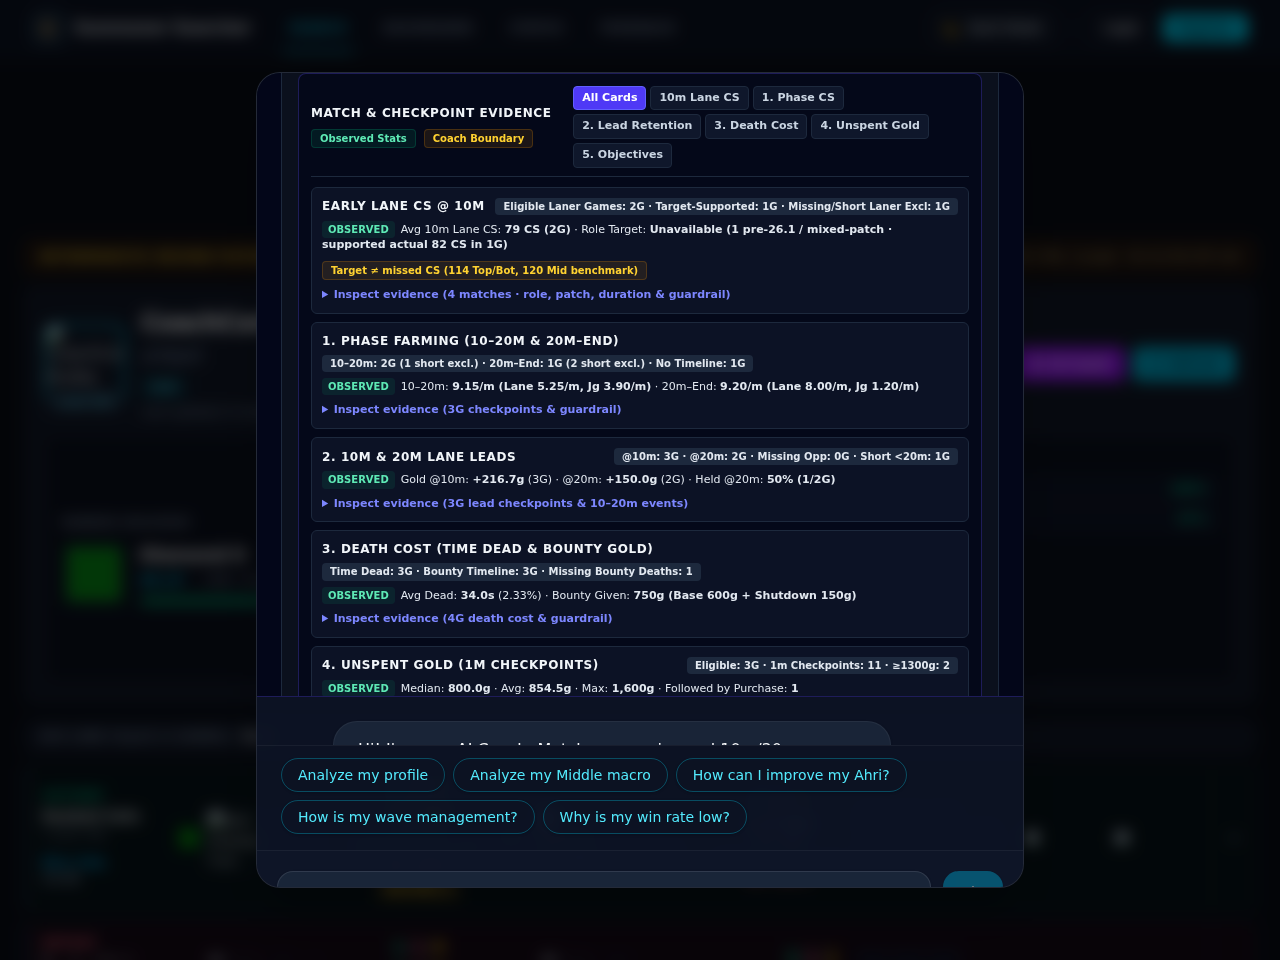
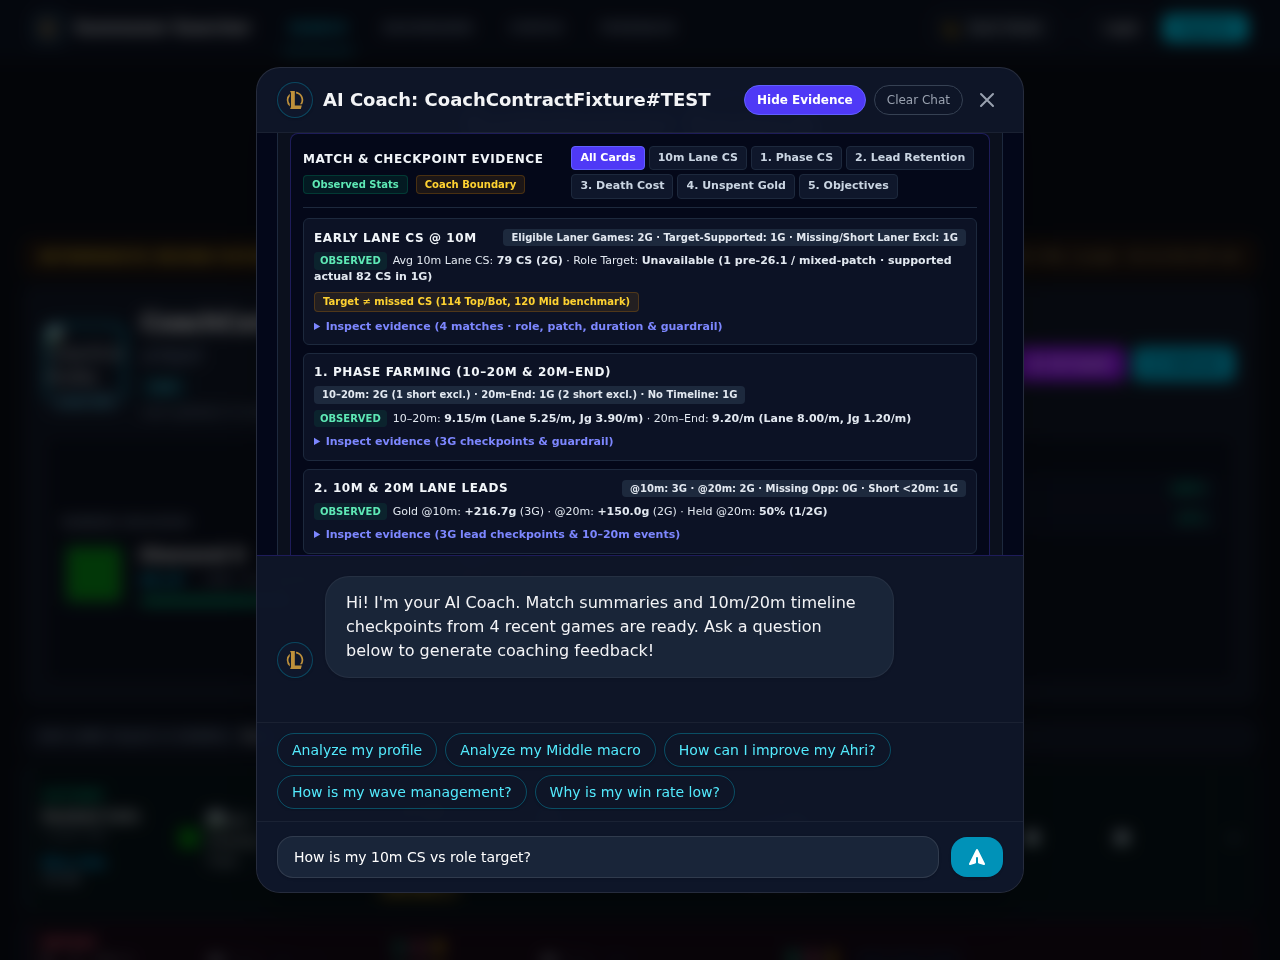
fix(ui): bound AI Coach modal to dvh with uncropped 320px footer and independent scroll

Changed region(s): [[0.2188, 0.0625, 0.7812, 0.7188], [0.2188, 0.75, 0.8125, 0.9375], [0.75, 0.3438, 0.7812, 0.375]]

diff --git a/src/components/AiAnalysisModal.tsx b/src/components/AiAnalysisModal.tsx
@@ -311,24 +311,30 @@ const AiAnalysisModal: React.FC<AiAnalysisModalProps> = ({
     context.timelineStatus === 'ANALYZED' || Boolean(imp?.hasTimelineAnalysis);
 
   return (
-    <div className="fixed inset-0 z-50 flex items-center justify-center bg-slate-900/40 dark:bg-black/60 backdrop-blur-sm p-2 sm:p-4 transition-all">
-      <div className="bg-white/95 dark:bg-slate-900/80 backdrop-blur-xl w-full max-w-3xl h-[95vh] sm:h-[85vh] rounded-2xl md:rounded-3xl shadow-2xl flex flex-col overflow-hidden border border-gray-200/50 dark:border-white/10">
+    <div className="fixed inset-0 z-50 flex items-center justify-center bg-slate-900/40 dark:bg-black/60 backdrop-blur-sm p-1.5 sm:p-4 transition-all">
+      <div
+        data-testid="ai-coach-modal-dialog"
+        className="bg-white/95 dark:bg-slate-900/90 backdrop-blur-xl w-full max-w-3xl h-[calc(100dvh-0.75rem)] max-h-[calc(100dvh-0.75rem)] sm:h-[min(86dvh,52rem)] sm:max-h-[calc(100dvh-2rem)] min-h-0 rounded-xl sm:rounded-2xl md:rounded-3xl shadow-2xl flex flex-col overflow-hidden border border-gray-200/50 dark:border-white/10"
+      >
         {/* Header */}
-        <div className="px-4 py-3 sm:px-6 sm:py-4 border-b border-gray-200/50 dark:border-white/5 flex flex-wrap justify-between items-center gap-2 shrink-0">
-          <h2 className="text-base sm:text-xl font-bold text-gray-800 dark:text-gray-100 flex items-center gap-2 sm:gap-3 min-w-0">
-            <div className="w-8 h-8 sm:w-10 sm:h-10 rounded-full bg-white dark:bg-slate-900 border border-gray-200 dark:border-cyan-500/30 flex items-center justify-center shadow-lg shadow-cyan-500/10 dark:shadow-cyan-500/20 p-1.5 sm:p-2 overflow-hidden shrink-0">
+        <div
+          data-testid="ai-coach-modal-header"
+          className="px-2.5 py-2 sm:px-5 sm:py-3.5 border-b border-gray-200/50 dark:border-white/5 flex justify-between items-center gap-1.5 sm:gap-2 shrink-0 min-w-0"
+        >
+          <h2 className="text-xs sm:text-lg font-bold text-gray-800 dark:text-gray-100 flex items-center gap-1.5 sm:gap-2.5 min-w-0 flex-1">
+            <div className="w-6 h-6 sm:w-9 sm:h-9 rounded-full bg-white dark:bg-slate-900 border border-gray-200 dark:border-cyan-500/30 flex items-center justify-center shadow-sm p-1 sm:p-1.5 overflow-hidden shrink-0">
               <img src="/lol.svg" alt="AI Coach" className="w-full h-full object-contain invert dark:invert-0 brightness-150 grayscale opacity-90 transition-all dark:opacity-100 dark:brightness-100 dark:grayscale-0" />
             </div>
             <span className="truncate">AI Coach: {summonerName}</span>
           </h2>
-          <div className="flex items-center gap-1.5 sm:gap-2.5 shrink-0">
+          <div className="flex items-center gap-1 sm:gap-2 shrink-0">
             <button
               type="button"
               data-testid="ai-coach-evidence-toggle"
               aria-expanded={showEvidenceDrawer}
               aria-controls="ai-coach-evidence-drawer"
               onClick={() => setShowEvidenceDrawer(prev => !prev)}
-              className={`text-xs font-semibold px-2.5 py-1 sm:px-3 sm:py-1.5 rounded-full border transition-colors ${
+              className={`text-[11px] sm:text-xs font-semibold px-2 py-1 sm:px-3 sm:py-1.5 rounded-full border transition-colors whitespace-nowrap ${
                 showEvidenceDrawer
                   ? 'bg-indigo-600 text-white border-indigo-500'
                   : 'text-indigo-700 dark:text-indigo-300 border-indigo-300 dark:border-indigo-700 hover:bg-indigo-50 dark:hover:bg-indigo-950/50'
@@ -339,41 +345,43 @@ const AiAnalysisModal: React.FC<AiAnalysisModalProps> = ({
             <button
               type="button"
               onClick={handleClearChat}
-              className="text-xs sm:text-sm text-gray-400 hover:text-gray-800 dark:hover:text-white transition-colors px-2 py-1 sm:px-3 sm:py-1.5 rounded-full border border-gray-200 dark:border-gray-700 hover:border-gray-300 dark:hover:border-gray-500"
+              className="text-[11px] sm:text-xs text-gray-400 hover:text-gray-800 dark:hover:text-white transition-colors px-2 py-1 sm:px-3 sm:py-1.5 rounded-full border border-gray-200 dark:border-gray-700 hover:border-gray-300 dark:hover:border-gray-500 whitespace-nowrap"
             >
               Clear Chat
             </button>
-            <button 
+            <button
               type="button"
+              data-testid="ai-coach-close-button"
+              aria-label="Close AI Coach"
               onClick={onClose}
-              className="text-gray-400 hover:text-gray-800 dark:hover:text-white transition-colors p-1"
+              className="text-gray-400 hover:text-gray-800 dark:hover:text-white transition-colors p-1 shrink-0"
             >
-              <svg xmlns="http://www.w3.org/2000/svg" className="h-6 w-6 sm:h-7 sm:w-7" fill="none" viewBox="0 0 24 24" stroke="currentColor">
+              <svg xmlns="http://www.w3.org/2000/svg" className="h-5 w-5 sm:h-6 sm:w-6" fill="none" viewBox="0 0 24 24" stroke="currentColor">
                 <path strokeLinecap="round" strokeLinejoin="round" strokeWidth={2} d="M6 18L18 6M6 6l12 12" />
               </svg>
             </button>
           </div>
         </div>
 
-        {/* Collapsible In-Coach Evidence Surface */}
+        {/* Collapsible In-Coach Evidence Surface (independently scrollable, capped so chat stays usable) */}
         {showEvidenceDrawer && (
           <div
             id="ai-coach-evidence-drawer"
             data-testid="ai-coach-evidence-drawer"
-            className="px-4 py-3 sm:px-6 bg-slate-50/95 dark:bg-slate-950/90 border-b border-indigo-200/70 dark:border-indigo-900/60 max-h-[65vh] overflow-y-auto text-xs space-y-2.5 shrink-0"
+            className="px-2 py-1.5 sm:px-5 sm:py-3 bg-slate-50/95 dark:bg-slate-950/90 border-b border-indigo-200/70 dark:border-indigo-900/60 max-h-[42dvh] sm:max-h-[44dvh] min-h-0 shrink overflow-y-auto overscroll-contain text-xs space-y-1.5"
           >
-            <div className="flex flex-wrap items-center justify-between gap-1.5">
-              <span className="font-extrabold uppercase tracking-wider text-slate-800 dark:text-slate-100">
+            <div className="flex flex-wrap items-center justify-between gap-1">
+              <span className="text-[10px] sm:text-xs font-extrabold uppercase tracking-wider text-slate-800 dark:text-slate-100">
                 What Your Coach Sees (Observed Stats &amp; Guardrails)
               </span>
-              <div className="flex flex-wrap gap-1.5">
-                <span className="text-[10px] font-bold px-2 py-0.5 rounded bg-emerald-500/10 text-emerald-700 dark:text-emerald-300 border border-emerald-500/20">
+              <div className="flex flex-wrap gap-1">
+                <span className="text-[10px] font-bold px-1.5 py-0.5 rounded bg-emerald-500/10 text-emerald-700 dark:text-emerald-300 border border-emerald-500/20">
                   Observed: {context.totalGamesAnalyzed || 0} matches ·{' '}
                   {timelineAnalyzedInContext
                     ? '10m/20m timelines loaded'
                     : 'Match summaries only (timeline not run)'}
                 </span>
-                <span className="text-[10px] font-bold px-2 py-0.5 rounded bg-amber-500/10 text-amber-700 dark:text-amber-300 border border-amber-500/20">
+                <span className="text-[10px] font-bold px-1.5 py-0.5 rounded bg-amber-500/10 text-amber-700 dark:text-amber-300 border border-amber-500/20">
                   Guardrails: Target &ne; missed CS · No guessed wave states
                 </span>
               </div>
@@ -467,21 +475,24 @@ const AiAnalysisModal: React.FC<AiAnalysisModalProps> = ({
           </div>
         )}
 
-        {/* Chat Area */}
-        <div className="flex-1 overflow-y-auto p-4 sm:p-6 space-y-6 sm:space-y-8 bg-transparent">
+        {/* Chat Area (independently scrollable with guaranteed minimum height) */}
+        <div
+          data-testid="ai-coach-chat-scroll"
+          className="flex-1 min-h-[5.5rem] overflow-y-auto overscroll-contain p-3 sm:p-5 space-y-3 sm:space-y-6 bg-transparent"
+        >
           {messages.map((msg, index) => (
             <div 
               key={index} 
               className={`flex ${msg.role === 'user' ? 'justify-end' : 'justify-start'} animate-fade-in-up`}
             >
               <div className={`flex max-w-[92%] sm:max-w-[85%] ${msg.role === 'user' ? 'flex-row-reverse' : 'flex-row'} items-end gap-2 sm:gap-3`}>
-                <div className={`w-8 h-8 sm:w-10 sm:h-10 rounded-full flex items-center justify-center shrink-0 shadow-sm overflow-hidden ${
+                <div className={`w-7 h-7 sm:w-9 sm:h-9 rounded-full flex items-center justify-center shrink-0 shadow-sm overflow-hidden ${
                   msg.role === 'user' 
                     ? 'bg-cyan-600' 
-                    : 'bg-white dark:bg-slate-900 border border-gray-200 dark:border-cyan-500/30 p-1.5 sm:p-2'
+                    : 'bg-white dark:bg-slate-900 border border-gray-200 dark:border-cyan-500/30 p-1 sm:p-1.5'
                 }`}>
                   {msg.role === 'user' ? (
-                    <svg xmlns="http://www.w3.org/2000/svg" className="h-5 w-5 sm:h-6 sm:w-6 text-white" viewBox="0 0 20 20" fill="currentColor">
+                    <svg xmlns="http://www.w3.org/2000/svg" className="h-4 w-4 sm:h-5 sm:w-5 text-white" viewBox="0 0 20 20" fill="currentColor">
                       <path fillRule="evenodd" d="M10 9a3 3 0 100-6 3 3 0 000 6zm-7 9a7 7 0 1114 0H3z" clipRule="evenodd" />
                     </svg>
                   ) : (
@@ -489,7 +500,7 @@ const AiAnalysisModal: React.FC<AiAnalysisModalProps> = ({
                   )}
                 </div>
                 <div 
-                  className={`rounded-2xl sm:rounded-3xl px-4 py-3 sm:px-6 sm:py-4 shadow-sm ${
+                  className={`rounded-2xl sm:rounded-3xl px-3.5 py-2.5 sm:px-5 sm:py-3.5 shadow-sm ${
                     msg.role === 'user' 
                       ? 'bg-cyan-600 dark:bg-cyan-600/90 text-white rounded-br-sm' 
                       : 'bg-gray-100/80 dark:bg-slate-800/80 text-gray-800 dark:text-gray-100 rounded-bl-sm border border-gray-200/50 dark:border-white/5'
@@ -549,10 +560,10 @@ const AiAnalysisModal: React.FC<AiAnalysisModalProps> = ({
           {loading && (
             <div className="flex justify-start animate-fade-in-up pb-2">
               <div className="flex max-w-[92%] sm:max-w-[85%] flex-row items-end gap-2 sm:gap-3">
-                <div className="w-8 h-8 sm:w-10 sm:h-10 rounded-full bg-white dark:bg-slate-900 border border-gray-200 dark:border-cyan-500/30 flex items-center justify-center shrink-0 shadow-sm p-1.5 sm:p-2 overflow-hidden">
+                <div className="w-7 h-7 sm:w-9 sm:h-9 rounded-full bg-white dark:bg-slate-900 border border-gray-200 dark:border-cyan-500/30 flex items-center justify-center shrink-0 shadow-sm p-1 sm:p-1.5 overflow-hidden">
                   <img src="/lol.svg" alt="AI Coach" className="w-full h-full object-contain invert dark:invert-0 brightness-150 grayscale opacity-90 transition-all dark:opacity-100 dark:brightness-100 dark:grayscale-0" />
                 </div>
-                <div className="bg-gray-100/80 dark:bg-slate-800/80 px-4 py-4 sm:px-6 sm:py-5 rounded-2xl sm:rounded-3xl rounded-bl-sm border border-gray-200/50 dark:border-white/5 shadow-sm flex items-center gap-1.5 h-[48px] sm:h-[56px]">
+                <div className="bg-gray-100/80 dark:bg-slate-800/80 px-4 py-3 sm:px-6 sm:py-4 rounded-2xl sm:rounded-3xl rounded-bl-sm border border-gray-200/50 dark:border-white/5 shadow-sm flex items-center gap-1.5 h-[42px] sm:h-[52px]">
                   <div className="w-1.5 h-1.5 sm:w-2 sm:h-2 bg-cyan-500/60 dark:bg-cyan-400/80 rounded-full typing-dot"></div>
                   <div className="w-1.5 h-1.5 sm:w-2 sm:h-2 bg-cyan-500/60 dark:bg-cyan-400/80 rounded-full typing-dot"></div>
                   <div className="w-1.5 h-1.5 sm:w-2 sm:h-2 bg-cyan-500/60 dark:bg-cyan-400/80 rounded-full typing-dot"></div>
@@ -565,13 +576,14 @@ const AiAnalysisModal: React.FC<AiAnalysisModalProps> = ({
 
         {/* Suggested Questions */}
         {suggestions.length > 0 && !loading && (
-          <div className="px-4 py-3 sm:px-6 sm:py-3 bg-transparent border-t border-gray-200/50 dark:border-white/5 shrink-0">
-            <div className="flex overflow-x-auto sm:flex-wrap gap-2 pb-1 scrollbar-hide snap-x">
+          <div className="px-2.5 py-1.5 sm:px-5 sm:py-2.5 bg-transparent border-t border-gray-200/50 dark:border-white/5 shrink-0">
+            <div className="flex overflow-x-auto sm:flex-wrap gap-1.5 sm:gap-2 pb-0.5 scrollbar-hide snap-x">
               {suggestions.map((q, i) => (
                 <button
                   key={i}
+                  type="button"
                   onClick={() => handleSendMessage(q)}
-                  className="shrink-0 snap-start px-3 py-1.5 sm:px-4 sm:py-1.5 bg-transparent border border-cyan-500/40 dark:border-cyan-400/30 text-cyan-700 dark:text-cyan-300 text-sm rounded-full hover:bg-cyan-500 hover:text-white dark:hover:bg-cyan-400 dark:hover:text-slate-900 transition-all duration-300 shadow-sm hover:scale-[1.02] active:scale-95"
+                  className="shrink-0 snap-start px-2.5 py-1 sm:px-3.5 sm:py-1.5 bg-transparent border border-cyan-500/40 dark:border-cyan-400/30 text-cyan-700 dark:text-cyan-300 text-xs sm:text-sm rounded-full hover:bg-cyan-500 hover:text-white dark:hover:bg-cyan-400 dark:hover:text-slate-900 transition-all duration-300 shadow-sm"
                 >
                   {q}
                 </button>
@@ -581,23 +593,30 @@ const AiAnalysisModal: React.FC<AiAnalysisModalProps> = ({
         )}
 
         {/* Input Area */}
-        <div className="p-4 sm:p-5 pb-5 sm:pb-5 border-t border-gray-200/50 dark:border-white/5 bg-white/50 dark:bg-slate-900/50 shrink-0">
-          <div className="flex gap-2 sm:gap-3 relative">
+        <div
+          data-testid="ai-coach-modal-footer"
+          className="px-2.5 py-2 sm:px-5 sm:py-3.5 border-t border-gray-200/50 dark:border-white/5 bg-white/80 dark:bg-slate-900/80 shrink-0"
+        >
+          <div className="flex items-center gap-2 sm:gap-3 min-w-0">
             <input
+              data-testid="ai-coach-input"
               type="text"
               value={input}
               onChange={(e) => setInput(e.target.value)}
               onKeyDown={(e) => e.key === 'Enter' && !e.shiftKey && handleSendMessage(input)}
               placeholder="Ask a question about this player..."
-              className="flex-1 bg-white/80 dark:bg-slate-800/80 border border-gray-200/50 dark:border-white/10 rounded-2xl px-4 py-3 sm:px-4 sm:py-3 focus:outline-none focus:ring-2 focus:ring-cyan-500/50 dark:text-white placeholder-gray-400 shadow-sm text-sm transition-all"
+              className="flex-1 min-w-0 bg-white/80 dark:bg-slate-800/80 border border-gray-200/50 dark:border-white/10 rounded-xl sm:rounded-2xl px-3 py-2 sm:px-4 sm:py-2.5 focus:outline-none focus:ring-2 focus:ring-cyan-500/50 dark:text-white placeholder-gray-400 shadow-sm text-xs sm:text-sm transition-all"
               disabled={loading}
             />
             <button
+              type="button"
+              data-testid="ai-coach-send-button"
+              aria-label="Send message"
               onClick={() => handleSendMessage(input)}
               disabled={loading || !input.trim()}
-              className="bg-cyan-600 hover:bg-cyan-500 text-white p-3 sm:px-5 sm:py-3 rounded-2xl shadow-sm hover:shadow-cyan-500/25 hover:shadow-lg transition-all disabled:opacity-50 disabled:cursor-not-allowed disabled:hover:shadow-none shrink-0 flex items-center justify-center transform active:scale-95"
+              className="bg-cyan-600 hover:bg-cyan-500 text-white p-2 sm:px-4 sm:py-2.5 rounded-xl sm:rounded-2xl shadow-sm hover:shadow-cyan-500/25 hover:shadow-lg transition-all disabled:opacity-50 disabled:cursor-not-allowed disabled:hover:shadow-none shrink-0 flex items-center justify-center transform active:scale-95"
             >
-              <svg xmlns="http://www.w3.org/2000/svg" className="h-5 w-5 sm:h-5 sm:w-5" viewBox="0 0 20 20" fill="currentColor">
+              <svg xmlns="http://www.w3.org/2000/svg" className="h-4 w-4 sm:h-5 sm:w-5" viewBox="0 0 20 20" fill="currentColor">
                 <path d="M10.894 2.553a1 1 0 00-1.788 0l-7 14a1 1 0 001.169 1.409l5-1.429A1 1 0 009 15.571V11a1 1 0 112 0v4.571a1 1 0 00.725.962l5 1.428a1 1 0 001.17-1.408l-7-14z" />
               </svg>
             </button>

diff --git a/src/components/ImprovementStatsSection.tsx b/src/components/ImprovementStatsSection.tsx
@@ -559,12 +559,14 @@ const ImprovementStatsSection: React.FC<ImprovementStatsSectionProps> = ({
   return (
     <section
       data-testid="improvement-stats-section"
-      className={`bg-slate-50/70 dark:bg-[#0b101d] rounded-lg ${compact ? 'mt-0' : 'mt-4'} border border-slate-200 dark:border-slate-800 p-4`}
+      className={`bg-slate-50/70 dark:bg-[#0b101d] rounded-lg ${
+        compact ? 'mt-0 p-2 sm:p-3' : 'mt-4 p-4'
+      } border border-slate-200 dark:border-slate-800`}
     >
       {/* Section Header + Filter Pills */}
-      <div className="flex flex-col lg:flex-row lg:items-center justify-between gap-2.5 pb-2.5 border-b border-slate-200 dark:border-slate-800">
+      <div className={`flex flex-col lg:flex-row lg:items-center justify-between ${compact ? 'gap-1.5 pb-1.5' : 'gap-2.5 pb-2.5'} border-b border-slate-200 dark:border-slate-800`}>
         <div>
-          <div className="flex flex-wrap items-center gap-2">
+          <div className="flex flex-wrap items-center gap-1.5">
             {!compact && (
               <h3 className="text-xs font-extrabold uppercase tracking-wider text-slate-800 dark:text-slate-100">
                 5-Stat Improvement Summary
@@ -572,14 +574,14 @@ const ImprovementStatsSection: React.FC<ImprovementStatsSectionProps> = ({
             )}
             <span
               data-testid="improvement-stats-sample-badge"
-              className="text-[10px] font-bold px-2 py-0.5 rounded bg-slate-100 dark:bg-slate-800 text-slate-700 dark:text-slate-200 border border-slate-200 dark:border-slate-700 telemetry-nums"
+              className="text-[10px] font-bold px-1.5 py-0.5 rounded bg-slate-100 dark:bg-slate-800 text-slate-700 dark:text-slate-200 border border-slate-200 dark:border-slate-700 telemetry-nums"
             >
               {totalGamesConsidered} {totalGamesConsidered === 1 ? 'Game' : 'Games'} Considered
               {excludedInvalidDurationGames > 0 && ` (${excludedInvalidDurationGames} invalid duration excl.)`}
             </span>
             <span
               data-testid="improvement-stats-timeline-status"
-              className="text-[10px] font-bold px-2 py-0.5 rounded border bg-slate-100 dark:bg-slate-800 text-slate-700 dark:text-slate-200 border-slate-200 dark:border-slate-700 telemetry-nums"
+              className="text-[10px] font-bold px-1.5 py-0.5 rounded border bg-slate-100 dark:bg-slate-800 text-slate-700 dark:text-slate-200 border-slate-200 dark:border-slate-700 telemetry-nums"
             >
               {sliceHasTimelineData
                 ? `Timeline Analyzed (${bountySummary.eligibleTimelineGames}/${totalGamesConsidered}G)`
@@ -610,7 +612,7 @@ const ImprovementStatsSection: React.FC<ImprovementStatsSectionProps> = ({
       {(roleEntries.length > 0 || championEntries.length > 0) && (
         <div
           data-testid="improvement-stats-filters"
-          className="flex flex-wrap items-center gap-1.5 pt-3 pb-1 text-xs"
+          className={`flex items-center gap-1 ${compact ? 'pt-1.5 pb-0.5 overflow-x-auto whitespace-nowrap no-scrollbar' : 'flex-wrap pt-3 pb-1'} text-xs`}
         >
           <span className="text-[10px] font-extrabold uppercase tracking-wider text-slate-400 dark:text-slate-500 mr-1">
             Slice:

diff --git a/src/components/SummonerInfo.test.tsx b/src/components/SummonerInfo.test.tsx
@@ -274,6 +274,28 @@ describe('SummonerInfo', () => {
     expect(drawer).toHaveTextContent('9.15/m (2G)');
     expect(drawer).toHaveTextContent('750g (3D)');
     expect(drawer).toHaveTextContent('800.0g / 854.5g');
+
+    // Verify dynamic viewport dialog bounds, independent scroll containers, input typing without paid AI call, and close/reopen
+    const dialog = screen.getByTestId('ai-coach-modal-dialog');
+    expect(dialog.className).toContain('100dvh');
+    expect(drawer.className).toContain('overflow-y-auto');
+    const chatScroll = screen.getByTestId('ai-coach-chat-scroll');
+    expect(chatScroll.className).toContain('overflow-y-auto');
+    expect(chatScroll.className).toContain('min-h-[5.5rem]');
+
+    const coachInput = screen.getByTestId('ai-coach-input') as HTMLInputElement;
+    expect(coachInput.className).toContain('min-w-0');
+    fireEvent.focus(coachInput);
+    fireEvent.change(coachInput, { target: { value: 'Check my 10m lane CS vs target' } });
+    expect(coachInput.value).toBe('Check my 10m lane CS vs target');
+    expect(screen.getByTestId('ai-coach-send-button')).not.toBeDisabled();
+
+    // Close and reopen AI Coach modal
+    fireEvent.click(screen.getByTestId('ai-coach-close-button'));
+    expect(screen.queryByTestId('ai-coach-modal-dialog')).not.toBeInTheDocument();
+    fireEvent.click(screen.getByText('AI Coach'));
+    expect(screen.getByTestId('ai-coach-modal-dialog')).toBeInTheDocument();
+    expect(screen.getByTestId('ai-coach-input')).toBeInTheDocument();
   });
 });
 
